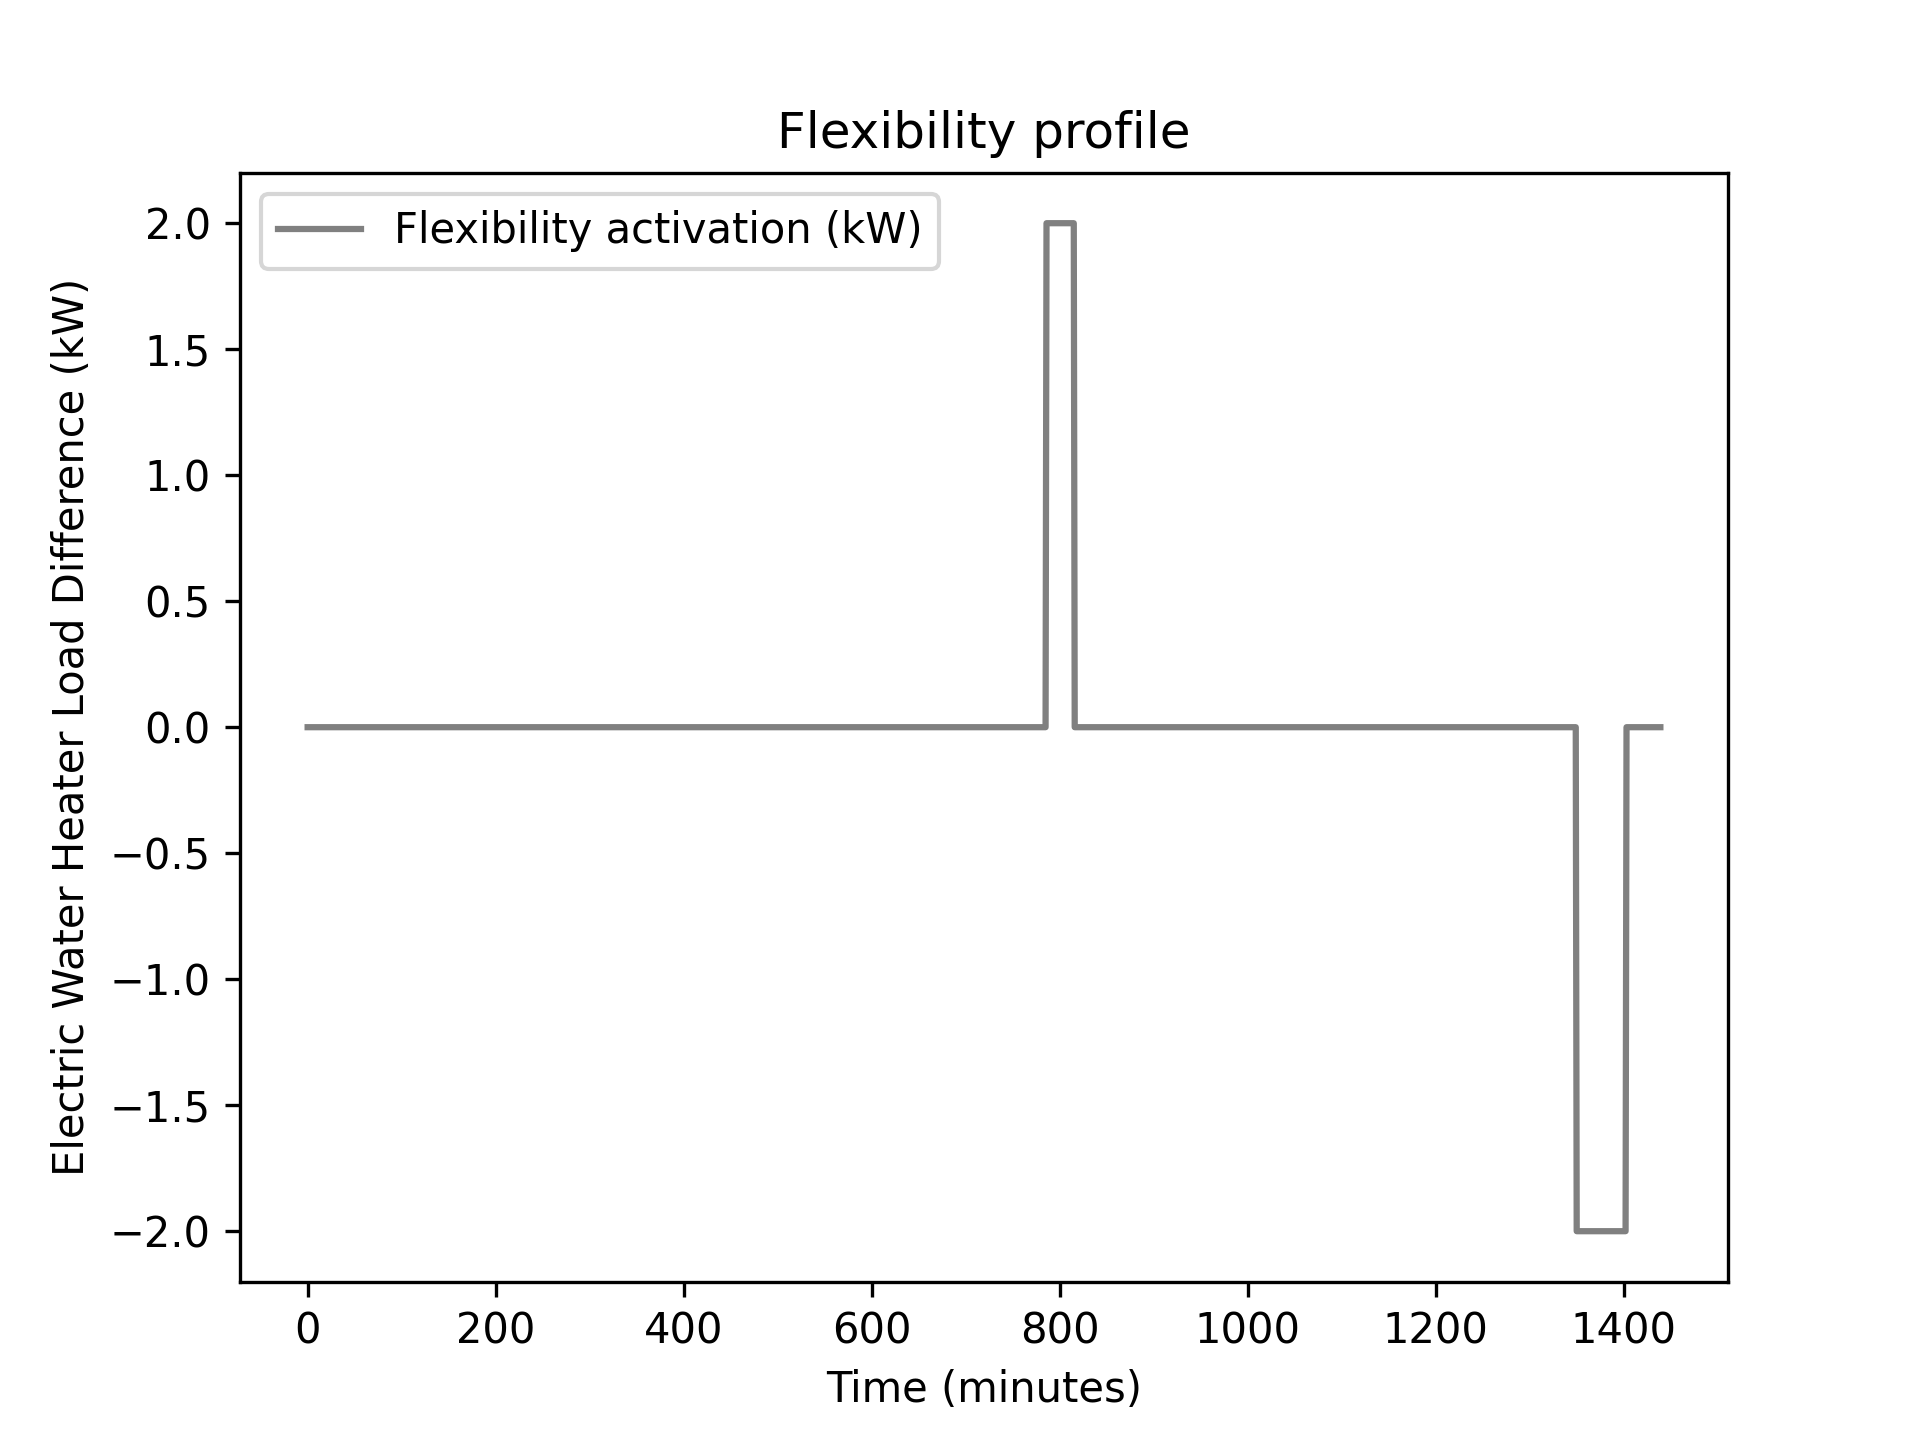
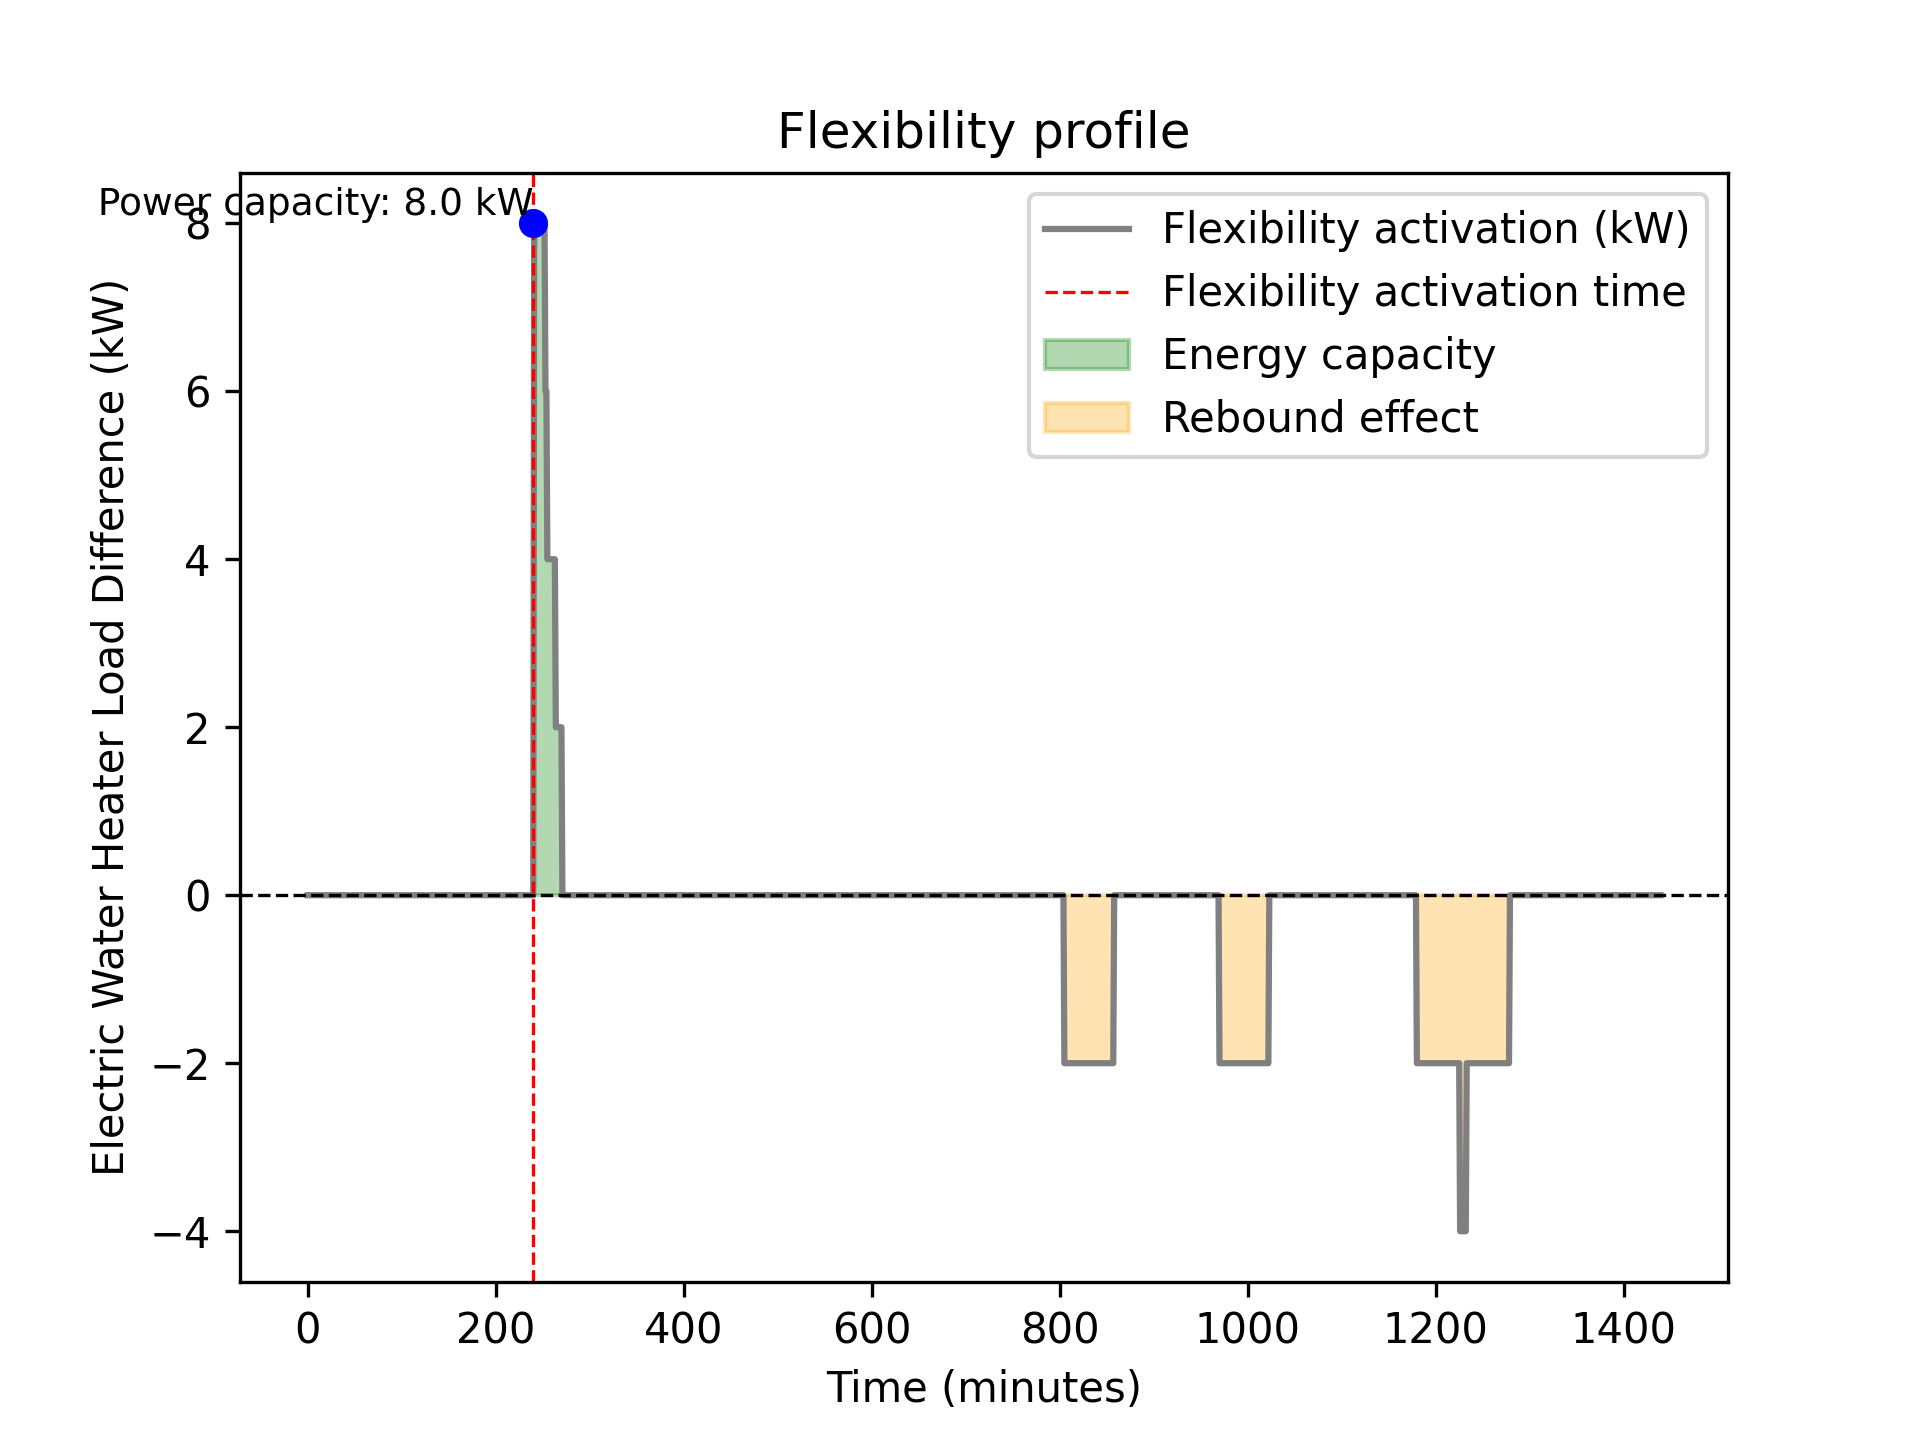
Final edits on exercise 2

diff --git a/Kraftmarkeder - fleksibilitetsmodul/CINELDI_MV_reference_system-flexibility_course_NTNU_public/exercise_2_load_analysis.py b/Kraftmarkeder - fleksibilitetsmodul/CINELDI_MV_reference_system-flexibility_course_NTNU_public/exercise_2_load_analysis.py
@@ -110,8 +110,7 @@ def save_plot(filename, show_plot=False):
 # pp_plotting.pf_res_plotly(net)
 # print('Minimum voltage in the system: ' + str(net.res_bus['vm_pu'].min()) + ' p.u.')
 
-## Plot the voltage profile in the grid avoiding branches for better visibility. To do this we plot vm_pu vs bus index as long as the voltage 
-## drops monotonically along the radial. 
+ 
 # Extract bus indices and voltages
 bus_indices = net.res_bus.index.tolist()
 voltages = net.res_bus['vm_pu'].values
@@ -141,32 +140,6 @@ plt.savefig(os.path.join(output_dir, 'descending_voltage.png'), dpi=300, bbox_in
 
 
 # Exercise 2 - Find how much the voltages decrease as the load demand in the area increases
-# Find how much the voltages decrease as the load demand in the area increases 
-# For later reference, make a table showing the load demand values of all four existing load 
-# points in the area (on bus 90, 91, 92 and 96) and their sum (i.e., the aggregated load demand 
-# in the area). Multiply each load proportionally by a scaling factor and run power flow 
-# calculations again for different values of this scaling factor in the range 1 to 2. Plot the lowest 
-# voltage value in the area as a function of the aggregated load demand in the area, compare 
-# with the voltage limit of 0.95 p.u., and explain what this tells about the grid capacity in the 
-# area. 
-
-## Martin suggestion to solve Exercise 2 ##
-# 1. Store original load values, both real and reactive, for buses 90, 91, 92, and 96
-# 2. Loop over scaling factors from 1 to 2 in steps of 0.2
-# 3. In each iteration, scale the load values for the four buses
-# 4. Print a table showing the load demand values of all four existing load points in the area and their sum
-    # The table should have the following format:
-
-    # Bus number / Scaling factor | 1.0 | 1.2 | 1.4 | 1.6 | 1.8 | 2.0
-    # 90                          |P90|Q90|
-    # 91                          |P91|Q91|
-    # 92                          |P92|Q92|
-    # 96                          |P96|Q96|
-    # Aggregated load demand      |SumP|SumQ|
-# 5. Run power flow calculation to find voltages
-# 6. Find the minimum voltage in the system and the corresponding bus
-# 7. Store the aggregated load demand in the area and the minimum voltage for plotting
-
 P_demand_bus_90_original = net.load.loc[net.load['bus'] == 90, 'p_mw'].values[0]
 Q_demand_bus_90_original = net.load.loc[net.load['bus'] == 90, 'q_mvar'].values[0]
 P_demand_bus_91_original = net.load.loc[net.load['bus'] == 91, 'p_mw'].values[0]
@@ -345,26 +318,6 @@ for i in range(len(sorted_load_with_new)):
         hours_to_reduce += ((P_lim - sorted_load_with_new[i-1]) / (sorted_load_with_new[i] - sorted_load_with_new[i-1])) * (i-i-1)
         break
 print('Number of hours per year to reduce load demand to avoid congestion: ' + str(hours_to_reduce) + '\n')
-
-# Exercise 11 - Characterize the need for flexibility in the area
-
-print("A flexibility resource in this context should have the following characteristics:")
-print("- Sufficient capacity to reduce load by at least " + str(overloading_amount) + " MW during peak hours.")
-print("- Fast response time to quickly adjust to changing grid conditions.")
-print("- Ability to provide both upward and downward flexibility.")
-print("- Compatibility with existing grid infrastructure and technologies.")
-print("Examples of relevant flexibility resources for the DSO include:")
-print("- Demand Response Programs: Incentivizing consumers to reduce or shift their electricity usage during peak times.")
-print("- Energy Storage Systems: Batteries or other storage technologies that can store excess energy and release it during peak demand.")
-print("- Flexible Generation: Power plants that can quickly ramp up or down their output to match demand.")
-
-# Exercise 12 -  Discuss the limitations of using a load duration curve to characterize the flexibility needs in this case
-
-print("Limitations of using a load duration curve to characterize flexibility needs:")
-print("- A load duration curve only provides a static view of load patterns and does not account for dynamic changes in demand or supply.")
-print("- It does not capture the temporal aspects of flexibility, such as the speed of response or the duration for which flexibility is needed.")
-print("- The curve may not reflect the actual operational constraints and capabilities of flexibility resources.")
-print("- It does not consider the geographical distribution of loads and generation, which can impact flexibility requirements.")
 
 # Exercise 13 - Compare load duration curves for different assumptions about the new load
 
